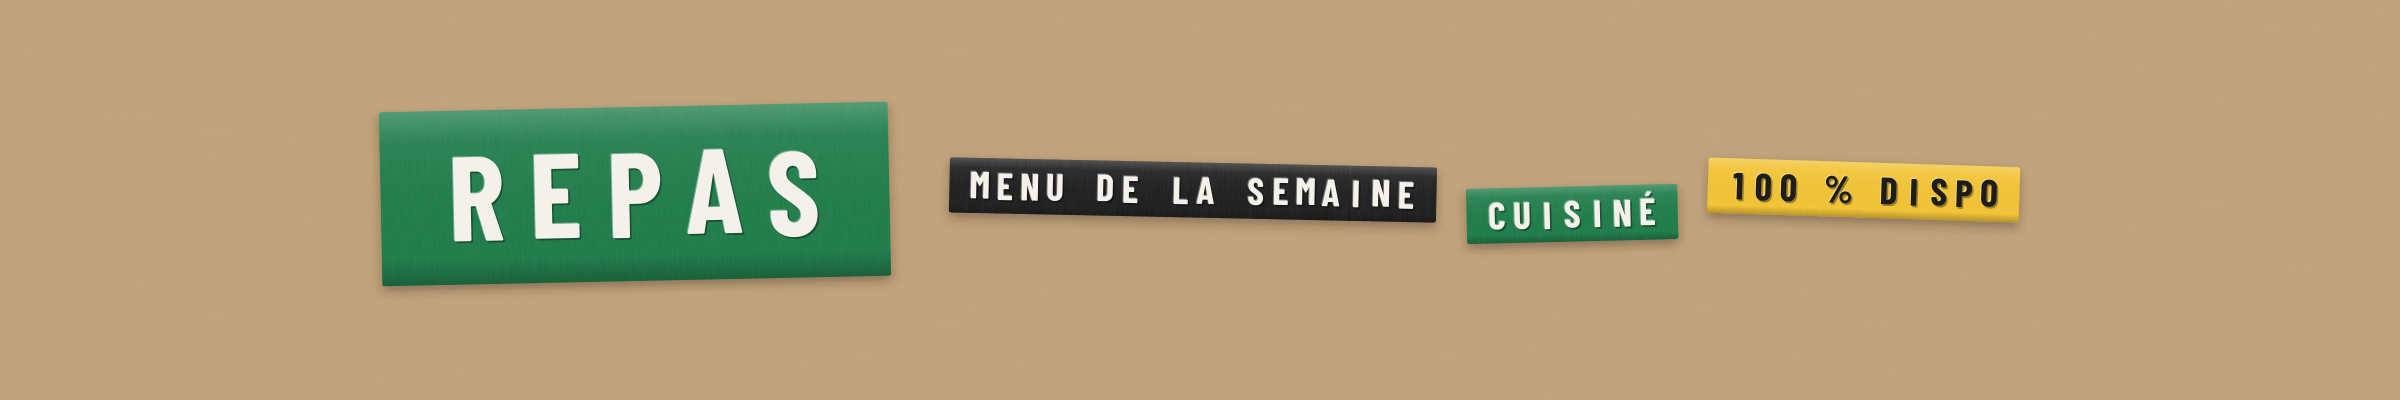
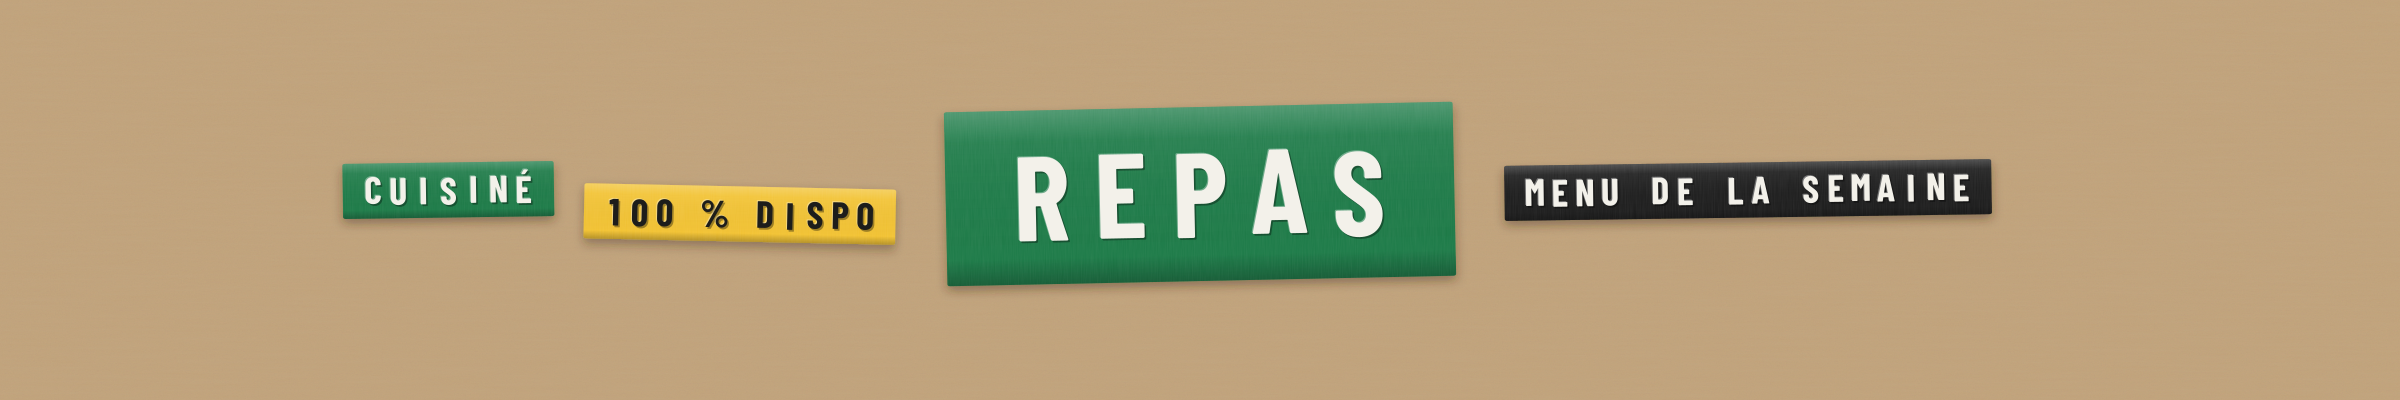
fix: mobile-safe covers — title centred, tags on both sides
Notion keeps only the centre of the cover on phones, which cut the
title. Titles now sit in the middle 36 % with secondary tags balanced
on each side.

Claude-Session: https://claude.ai/code/session_01YAWoade2hb8ojyKy29xB4b

Changed region(s): [[0.125, 0.24, 0.8438, 0.75]]

diff --git a/assets/v2/generate.py b/assets/v2/generate.py
@@ -60,7 +60,7 @@ COVERS={
  "stock":(("STOCK & COURSES","bleu",84),[("RÉSERVE","noir"),("QUOTIDIEN","gris"),("À RACHETER","jaune")]),
  "repas":(("REPAS","vert",120),[("MENU DE LA SEMAINE","noir"),("CUISINÉ","vert"),("100 % DISPO","jaune")]),
  "semaine":(("POINT DU DIMANCHE","noir",84),[("10 MIN","jaune"),("À DEUX","rouge")]),
- "demarrer":(("DÉMARRER","noir",100),[("1. DUPLIQUER","gris"),("2. INVITER","bleu"),("3. RÉPARTIR","rouge")]),
+ "demarrer":(("DÉMARRER","noir",120),[("15 MIN","jaune"),("PREMIÈRE FOIS","bleu")]),
  "coulisses":(("COULISSES","gris",110),[("NE PAS TOUCHER","noir")]),
 }
 ROTS=[1.2,-1.4,1.8,-0.8]
@@ -76,15 +76,34 @@ def cover_layout(t,c,fs,smalls,x0):
         g,sw=tape(x,CH/2-sh/2+(14 if i%2 else -10),st,TAPE[sc],38,ROTS[i%4],seed=i+3)
         body+=g; x+=sw+30
     return body,x-30-x0
+# Sur mobile, Notion ne garde que le centre (~35 % de la largeur) : le titre est
+# centré et tient dans MOBILE ; les petites étiquettes se répartissent de chaque côté.
+MOBILE=CW*0.36
+def small_row(items,x0,seed0):
+    body,x='',x0; sh=38*1.45
+    for i,(st,sc) in enumerate(items):
+        g,sw=tape(x,CH/2-sh/2+(14 if i%2 else -10),st,TAPE[sc],38,ROTS[(i+seed0)%4],seed=i+seed0)
+        body+=g; x+=sw+30
+    return body,x-30-x0
 for k,(big,smalls) in COVERS.items():
     t,c,fs=big
-    _,total=cover_layout(t,c,fs,smalls,0)
-    # d'abord retirer une étiquette secondaire, ne réduire le titre qu'en dernier recours
-    while total>SAFE and len(smalls)>1: smalls=smalls[:-1]; _,total=cover_layout(t,c,fs,smalls,0)
-    while total>SAFE: fs-=4; _,total=cover_layout(t,c,fs,smalls,0)
-    body,total=cover_layout(t,c,fs,smalls,(CW-total)/2)
-    print(k,fs,round(total))
-    render(f'covers/{k}',svg(CW,CH,body),CW,CH)
+    _,w=tape(0,0,t,TAPE[c],fs,-1.2,seed=len(t))
+    while w>MOBILE: fs-=4; _,w=tape(0,0,t,TAPE[c],fs,-1.2,seed=len(t))
+    bx=(CW-w)/2; bh=fs*1.45
+    body,_=tape(bx,CH/2-bh/2-6,t,TAPE[c],fs,-1.2,seed=len(t))
+    def split(items):
+        L,R=[],[]
+        for it in items:  # équilibre : chaque étiquette va du côté le plus court
+            (L if small_row(L,0,7)[1]<small_row(R,0,3)[1] else R).append(it)
+        return L,R
+    room=bx-50-CW*0.08
+    left,right=split(smalls)
+    while max(small_row(left,0,7)[1],small_row(right,0,3)[1])>room:
+        smalls=smalls[:-1]; left,right=split(smalls)
+    _,lw=small_row(left,0,7)
+    lb,_=small_row(left,bx-50-lw,7); rb,rw=small_row(right,bx+w+50,3)
+    print(k,fs,round(w))
+    render(f'covers/{k}',svg(CW,CH,body+lb+rb),CW,CH)
 
 # ---------- icônes 280x280 : pastille de ruban + monogramme ----------
 ICONS={"foyer":("F","noir"),"taches":("T","rouge"),"stock":("S","bleu"),"repas":("R","vert"),"semaine":("7","jaune"),"demarrer":("1","gris"),"coulisses":("C","gris")}
